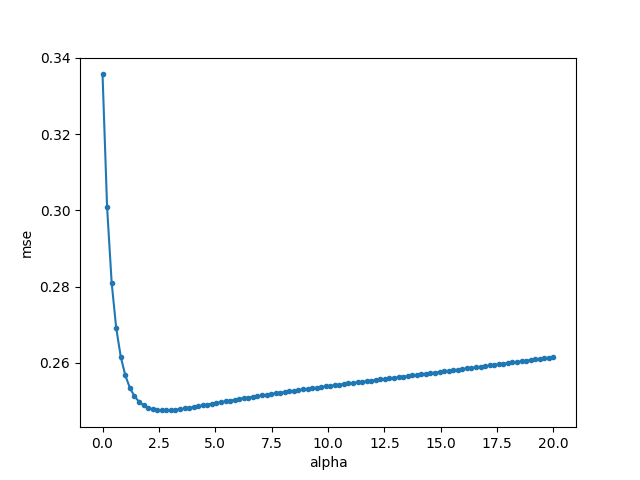
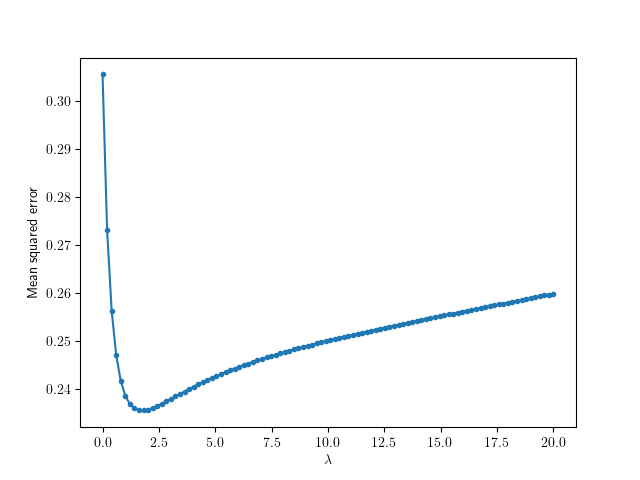
stat plus det løse

diff --git a/projekt_2/stat.py b/projekt_2/stat.py
@@ -1,0 +1,22 @@
+import numpy as np
+from scipy import stats
+
+# Given data
+ann_data = np.array([0.64828858, 0.54104146, 0.78696263, 0.69408092, 0.66063501, 0.20448235, 0.10568728, 0.35057614, 1.04016758, 1.04335894, 0.21102207, 0.54472147, 0.75280717, 0.69392661, 0.61910789, 0.15568949, 0.0837486, 0.38906645, 1.04016771, 1.04917984, 0.19812336, 0.38442578, 1.17885431, 0.69402115, 0.62044367, 0.20086771, 0.08664178, 0.37407601, 1.04017798, 1.03982788, 0.19677088, 0.41849146, 0.86693504, 0.36291001, 0.57004345, 0.20514602, 0.0828033, 0.33799165, 1.0401662, 1.05247115, 0.20630274, 0.40129971, 0.85962697, 0.76847848, 0.98562314, 0.17574455, 0.08637289, 0.34341431, 0.98933937, 1.03443676, 0.20991109, 0.394162, 0.85313184, 0.67665005, 0.65753002, 0.28429444, 0.08543606, 0.33704678, 1.04016418, 1.04659988, 0.20984186, 0.36722909, 0.8587494, 0.76554981, 0.65741295, 0.64876151, 0.21416648, 0.3783889, 1.04018589, 1.03623445, 0.21870071, 0.44609173, 0.86413813, 0.73194203, 0.65747117, 0.69629817, 0.21846923, 0.04377856, 1.04016442, 1.03112786, 0.21082705, 0.37582092, 0.85858911, 0.74364555, 0.65759165, 0.69565713, 0.21214278, 0.09881021, 0.35431232, 1.04672172, 0.20534604, 0.64240987, 0.53958896, 0.84659733, 0.69411195, 0.59152306, 0.172775, 0.08458693, 0.36104564, 1.04016413])
+lr_data = np.array([0.13189799, 0.06122904, 0.4916303, 0.13642047, 0.14029751, 0.10135527, 0.08021705, 0.03238564, 1.0205544, 0.02150466, 0.10783679, 0.05290283, 0.5112031, 0.15225007, 0.1281014, 0.09137768, 0.07118505, 0.05710182, 0.98751478, 0.03295593, 0.10397672, 0.11500977, 0.53678868, 0.1449386, 0.12856044, 0.10719509, 0.08812112, 0.03902103, 1.03641598, 0.02019119, 0.07279207, 0.12933826, 0.08359025, 0.10239753, 0.0938581, 0.12396532, 0.07195669, 0.07614858, 0.9633341, 0.02935817, 0.10751203, 0.12553531, 0.06964448, 0.49926079, 0.1019022, 0.09457283, 0.08160863, 0.04094088, 1.01210074, 0.02941858, 0.05072052, 0.07602519, 0.05712178, 0.30931947, 0.10675012, 0.0169779, 0.07536949, 0.02481301, 0.65517744, 0.02621477, 0.09776944, 0.10241369, 0.06306558, 0.50312425, 0.15401821, 0.08577086, 0.11033949, 0.03588497, 1.0611, 0.02577701, 0.08207709, 0.12569342, 0.06108243, 0.53728596, 0.16092769, 0.08887392, 0.09206527, 0.01203777, 1.05530038, 0.0300999, 0.09345899, 0.09176559, 0.04649527, 0.4907141, 0.0891989, 0.08532206, 0.10319927, 0.0650292, 0.08636364, 0.04716796, 0.08379934, 0.11939961, 0.0435255, 0.48918321, 0.14944671, 0.12611022, 0.09659485, 0.07561788, 0.0426601, 1.05981044])
+base_data = np.array([0.89851386, 0.86604079, 2.40982453, 0.84813122, 1.55458192, 0.2234423, 0.41247211, 1.20121098, 1.11905558, 1.53413271, 0.33835805, 0.87376417, 2.39141957, 0.86523401, 1.54220657, 0.22044637, 0.40478647, 1.18883564, 1.13481846, 1.54185609, 0.33511531, 0.67046171, 2.52243132, 0.84572571, 1.55638757, 0.22390804, 0.4136078, 1.20301663, 1.11684149, 1.53306711, 0.33278916, 0.67063628, 1.19042426, 0.6121599, 1.56929133, 0.22743239, 0.42182186, 1.21592039, 1.10160703, 1.52587215, 0.33278916, 0.67063628, 1.19042426, 2.37238846, 1.81799184, 0.22743239, 0.42182186, 1.21592039, 1.10160703, 1.52587215, 0.33117509, 0.67115391, 1.18003116, 2.39070782, 0.77533838, 0.38283019, 0.42923048, 1.22734876, 1.08891693, 1.52007304, 0.32926402, 0.67277151, 1.1634642, 2.42199497, 0.75398601, 0.96706217, 1.00636252, 1.24715093, 1.06852164, 1.51116274, 0.33049952, 0.67154011, 1.17496199, 2.39999489, 0.76883359, 0.96851059, 0.96816214, 0.40090422, 1.08269927, 1.51730087, 0.34439071, 0.67251067, 1.24139698, 2.29415507, 0.85249605, 0.98326314, 0.90366827, 0.39998421, 1.17087552, 1.55617189, 0.3382059, 0.90514569, 0.87325812, 2.39102025, 0.86359792, 1.54217988, 0.22052555, 0.40488481, 1.18880895, 1.13337911])
+
+# Perform paired t-test and compute confidence interval for each combination
+datasets = [(ann_data, lr_data), (ann_data, base_data), (lr_data, base_data)]
+
+for idx, (data1, data2) in enumerate(datasets, start=1):
+    print(f"Paired t-test {idx}:")
+    t_statistic, p_value = stats.ttest_rel(data1, data2)
+    print("t-statistic:", t_statistic)
+    print("p-value:", p_value)
+    
+    print(f"Confidence interval {idx}:")
+    differences = data1 - data2
+    confidence_interval = stats.t.interval(0.95, len(differences)-1, loc=np.mean(differences), scale=stats.sem(differences))
+    print("95% confidence interval for the mean difference:", confidence_interval)
+    print("\n")

diff --git a/projekt_2/regression_part_b.py b/projekt_2/regression_part_b.py
@@ -7,6 +7,7 @@ import torch
 import torch.nn as nn
 import torch.optim as optim
 from torch.utils.data import DataLoader, TensorDataset
+from scipy.stats import ttest_rel
 
 def train_test_lr(model, train_data, test_data):
     # train model
@@ -74,7 +75,6 @@ def test_ann(model, data):
 def get_baseline(train_data, test_data):
     avg = np.mean(train_data)
     predictions = np.zeros(len(test_data)) + avg
-    print(mean_squared_error(predictions.reshape(-1), test_data.reshape(-1)))
     return mean_squared_error(predictions.reshape(-1), test_data.reshape(-1))
 
 # initizialize the table
@@ -107,6 +107,10 @@ inner_mse_lr = np.zeros((A, inner_k))
 length_of_inner_test_set = np.zeros(inner_k)
 length_of_outer_test_set = np.zeros(outer_k)
 
+# data for t test
+t_test_data_lr = np.zeros(inner_k*outer_k)
+t_test_data_ann = np.zeros(inner_k*outer_k)
+t_test_data_baseline = np.zeros(inner_k*outer_k)
 
 
 # Prepare cross-validation (outer loop)
@@ -140,6 +144,10 @@ for outer_fold, (train_index, test_index) in enumerate(outer_cv.split(st_X_reg, 
         
             # train and test lr
             inner_mse_lr[i, j] = train_test_lr(model=model_lr, train_data=(X_train_inner, y_train_inner), test_data=(X_test_inner, y_test_inner))
+        t_test_data_lr[outer_fold*outer_k + j] = np.min(inner_mse_lr[:, j])
+        t_test_data_ann[outer_fold*outer_k + j] = np.min(inner_mse_ann[:, j])
+        temp = get_baseline(y_train_inner, y_test_inner)
+        t_test_data_baseline[outer_fold*outer_k + j] = temp
         
     for c1 in range(A):
         weighted_mse_estimate_ann[c1] = np.sum([(length_of_inner_test_set[c2] * inner_mse_ann[c1, c2])/len(y_test_outer) for c2 in range(inner_k)])
@@ -160,4 +168,11 @@ for outer_fold, (train_index, test_index) in enumerate(outer_cv.split(st_X_reg, 
     baseline = get_baseline(train_data=y_train_outer, test_data=y_test_outer)
     table += f"{outer_fold+1},{best_nodes_number},{round(outer_mse_ann[outer_fold], 2)},{round(best_alpha, 2)},{round(outer_mse_lr[outer_fold],2)},{round(baseline, 2)}\n"
 
-print(table)
+#print(table)
+print("ann_minus_lr mean:", np.mean(t_test_data_ann-t_test_data_lr), "sd", np.std(t_test_data_ann-t_test_data_lr))
+print("ann_minus_baseline mean:", np.mean(t_test_data_ann-t_test_data_baseline), "sd", np.std(t_test_data_ann-t_test_data_baseline))
+print("lr_minus_baseline mean", np.mean(t_test_data_lr-t_test_data_baseline), "sd", np.std(t_test_data_lr-t_test_data_baseline))
+print("ann_data:\n", t_test_data_ann)
+print("lr_data:\n", t_test_data_lr)
+print("base_data:\n", t_test_data_baseline)
+print(ttest_rel(t_test_data_ann, t_test_data_lr), ttest_rel(t_test_data_ann, t_test_data_baseline), ttest_rel(t_test_data_baseline, t_test_data_lr))

diff --git a/projekt_2/regression_part_a.py b/projekt_2/regression_part_a.py
@@ -5,6 +5,7 @@ from sklearn import model_selection
 from sklearn.metrics import mean_squared_error
 A = 100
 K = 10
+plt.rcParams['text.usetex'] = True
 error_per_fold = np.zeros(K)
 error_per_aplha = np.zeros(A)
 i = 0
@@ -30,8 +31,8 @@ for alpha in np.linspace(0, 20, A):
 # Display scatter plot
 plt.figure()
 plt.plot(np.linspace(0, 20, A), error_per_aplha, ".-")
-plt.xlabel(f"alpha")
-plt.ylabel(f"mse")
+plt.xlabel(f"$\lambda$")
+plt.ylabel(f"Mean squared error")
 plt.savefig("projekt_2/plots/error_per_alpha.png")
 plt.show()
 
